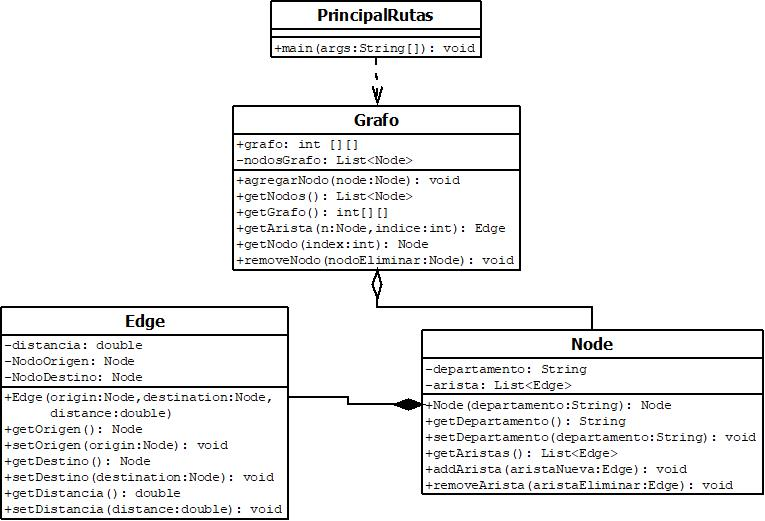
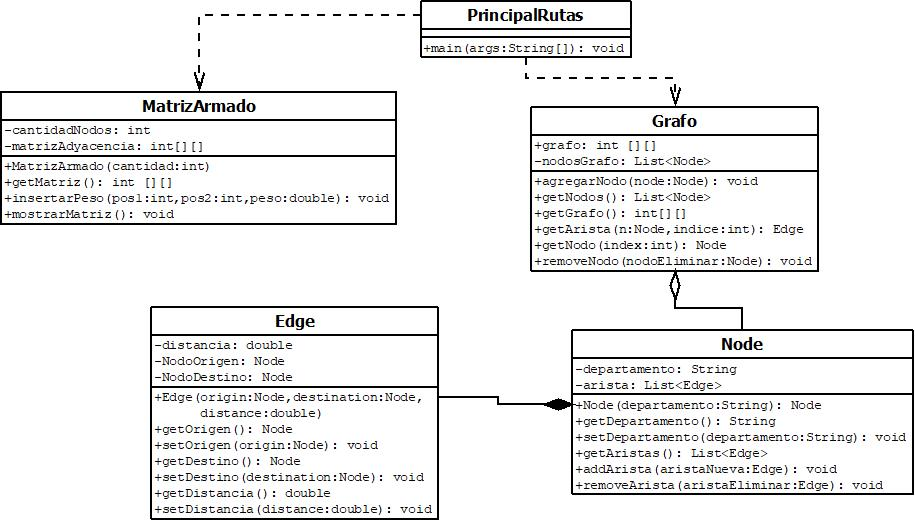
implementacion de matriz adyacente

Changed region(s): [[0.0, 0.1228, 1.0, 1.0], [0.3307, 0.0, 0.6915, 0.1536], [0.7216, 0.6449, 0.8418, 0.6756]]

diff --git a/src/PrincipalRutas.java b/src/PrincipalRutas.java
@@ -17,7 +17,7 @@ public class PrincipalRutas {
 		try {
 			String directorioNuevoDiccionario = System.getProperty("user.dir");
 	        Scanner inputScan = new Scanner(new File(directorioNuevoDiccionario + "\\src\\guategrafo.txt"));
-	        
+	        int contador=0;
 	        while (inputScan.hasNextLine()) {
 	            String line = inputScan.nextLine();
 	            String[] indice_particion_texto = line.split(" "); //Particionar texto
@@ -25,11 +25,30 @@ public class PrincipalRutas {
 	            String primera_parte = indice_particion_texto[0];//Obtiene origen
 	            String segunda_parte = indice_particion_texto[1];//Obtiene destino
 	            String tercera_parte = indice_particion_texto[2];//Obtiene distancia
-	           
-	            Node n = new Node(primera_parte);
-	            Node n2 = new Node(segunda_parte);
-	            n.addArista(new Edge(n,n2,Double.parseDouble(tercera_parte)));
-	            grafo2.agregarNodo(n);
+	           if(contador>=4) {
+	        	   if(primera_parte.equals("Peten")) {
+	        		   
+		            	Node n = grafo2.getNodos().get(2);
+		            	
+			            Node n2 = new Node(segunda_parte);
+			            n.addArista(new Edge(n,n2,Double.parseDouble(tercera_parte)));
+		            }else 
+		            {
+		            	Node n = new Node(primera_parte);
+			            
+			            Node n2 = new Node(segunda_parte);
+			            n.addArista(new Edge(n,n2,Double.parseDouble(tercera_parte)));
+			            grafo2.agregarNodo(n);
+		            }
+	           }else {
+	        	   Node n = new Node(primera_parte);
+		            
+		            Node n2 = new Node(segunda_parte);
+		            n.addArista(new Edge(n,n2,Double.parseDouble(tercera_parte)));
+		            grafo2.agregarNodo(n);
+	           }
+	           contador++;
+	            
 	            
 	        }
 	        inputScan.close();
@@ -38,12 +57,47 @@ public class PrincipalRutas {
 	    }
     	
 	 List<Node> lista =grafo2.getNodos();
+	 MatrizArmado matriz = new MatrizArmado(lista.size());
+	 
+	 //Armar la matriz de adyacencia tomando en cuenta cantidad de aristas y pesos
+	 for(int i=0; i<(grafo2.getNodos().size());i++) {
+		 for(int j=0; j<(grafo2.getNodos().size());j++) {
+			 if(grafo2.getNodos().get(i).getAristas().size()>1) {
+				 if(grafo2.getNodos().get(i).getAristas().get(0).getDestino().getDepartamento().equals(grafo2.getNodo(j).getDepartamento())){
+					 matriz.insertarPeso(grafo2.getNodos().indexOf(grafo2.getNodo(i)), grafo2.getNodos().indexOf(grafo2.getNodo(j)), grafo2.getNodos().get(i).getAristas().get(0).getDistancia());
+				 }else if(grafo2.getNodos().get(i).getAristas().get(1).getDestino().getDepartamento().equals(grafo2.getNodo(j).getDepartamento())){
+					 matriz.insertarPeso(grafo2.getNodos().indexOf(grafo2.getNodo(i)), grafo2.getNodos().indexOf(grafo2.getNodo(j)), grafo2.getNodos().get(i).getAristas().get(1).getDistancia());
+				 }
+				 
+				 else {
+					 matriz.insertarPeso(grafo2.getNodos().indexOf(grafo2.getNodo(i)), grafo2.getNodos().indexOf(grafo2.getNodo(j)), 999999);
+				 } 
+			 }else {
+				 if(grafo2.getNodos().get(i).getAristas().get(0).getDestino().getDepartamento().equals(grafo2.getNodo(j).getDepartamento())){
+					 matriz.insertarPeso(grafo2.getNodos().indexOf(grafo2.getNodo(i)), grafo2.getNodos().indexOf(grafo2.getNodo(j)), grafo2.getNodos().get(i).getAristas().get(0).getDistancia());
+				 }else {
+					 matriz.insertarPeso(grafo2.getNodos().indexOf(grafo2.getNodo(i)), grafo2.getNodos().indexOf(grafo2.getNodo(j)), 999999);
+				 }
+			 }
+			 
+			 
+		 }
+	 }
+	
+	 
 	 for(int i=0; i<lista.size();i++) {
 		 System.out.println("****************************************");
 		 System.out.println(lista.get(i).getAristas().get(0).toString());
 		 System.out.println("****************************************");
 		 System.out.println();
 	 }
+	 System.out.println();
+	 System.out.println("-------MATRIZ DE ADYACENCIA DEL GRAFO-----------");
+	 matriz.mostrarMatriz();
+	 MatrizArmado m = new MatrizArmado(2);
+	 
+	 System.out.println();
+	 
 	 
 	 
 	 	

diff --git a/src/MatrizArmado.java b/src/MatrizArmado.java
@@ -1,0 +1,55 @@
+/**
+ * Implementacion extraida de: https://www.jc-mouse.net/java/matriz-de-adyacencia-representacion-de-grafos-en-java
+ * @author Bryann
+ *
+ */
+public class MatrizArmado {
+    
+	//Variables
+    private int cantidadNodos;
+    private int[][] matrizAdyacencia;
+    
+    /**
+     * Constructor de la matriz
+     * @param cantidad 
+     */
+    public MatrizArmado(int cantidad) {
+        this.cantidadNodos = cantidad;
+        matrizAdyacencia = new int[cantidadNodos][cantidadNodos];
+        //Cargar matriz con valores vacios
+        for(int i=0; i< cantidad; i++){
+            for(int j=0; j< cantidad; j++){
+                matrizAdyacencia[i][j] = 0;
+            }            
+        }
+    }
+    /**
+     * Metodo para obtener a la matriz
+     * @return
+     */
+    public int [][] getMatriz() {
+    	return this.matrizAdyacencia;
+    }
+    
+    /**
+     * Metodo para agregar elementos a la matriz con peso
+     * @param pos1
+     * @param pos2
+     * @param peso
+     */
+    public void insertarPeso(int pos1, int pos2, double peso){
+        matrizAdyacencia[pos1][pos2] += peso;
+    }
+    
+    /**
+     * Metodo para mostrar en pantalla la matriz
+     */
+    public void mostrarMatriz(){
+        for(int i=0; i< cantidadNodos; i++){
+            for(int j=0; j< cantidadNodos; j++){
+                System.out.print( matrizAdyacencia[i][j] + "-" );        
+            }
+            System.out.println();
+        }  
+    }
+}
